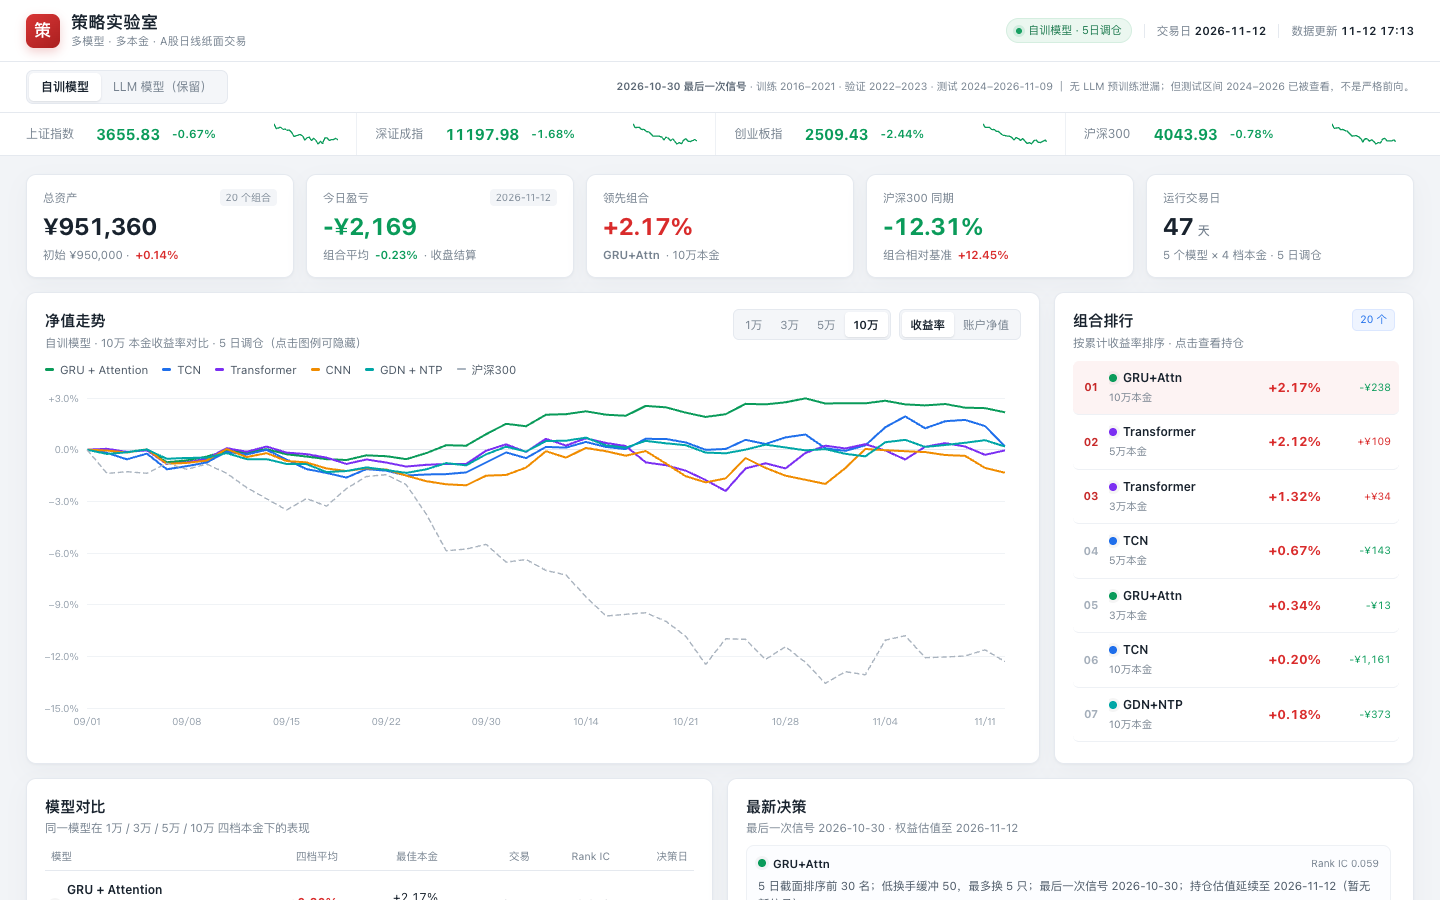
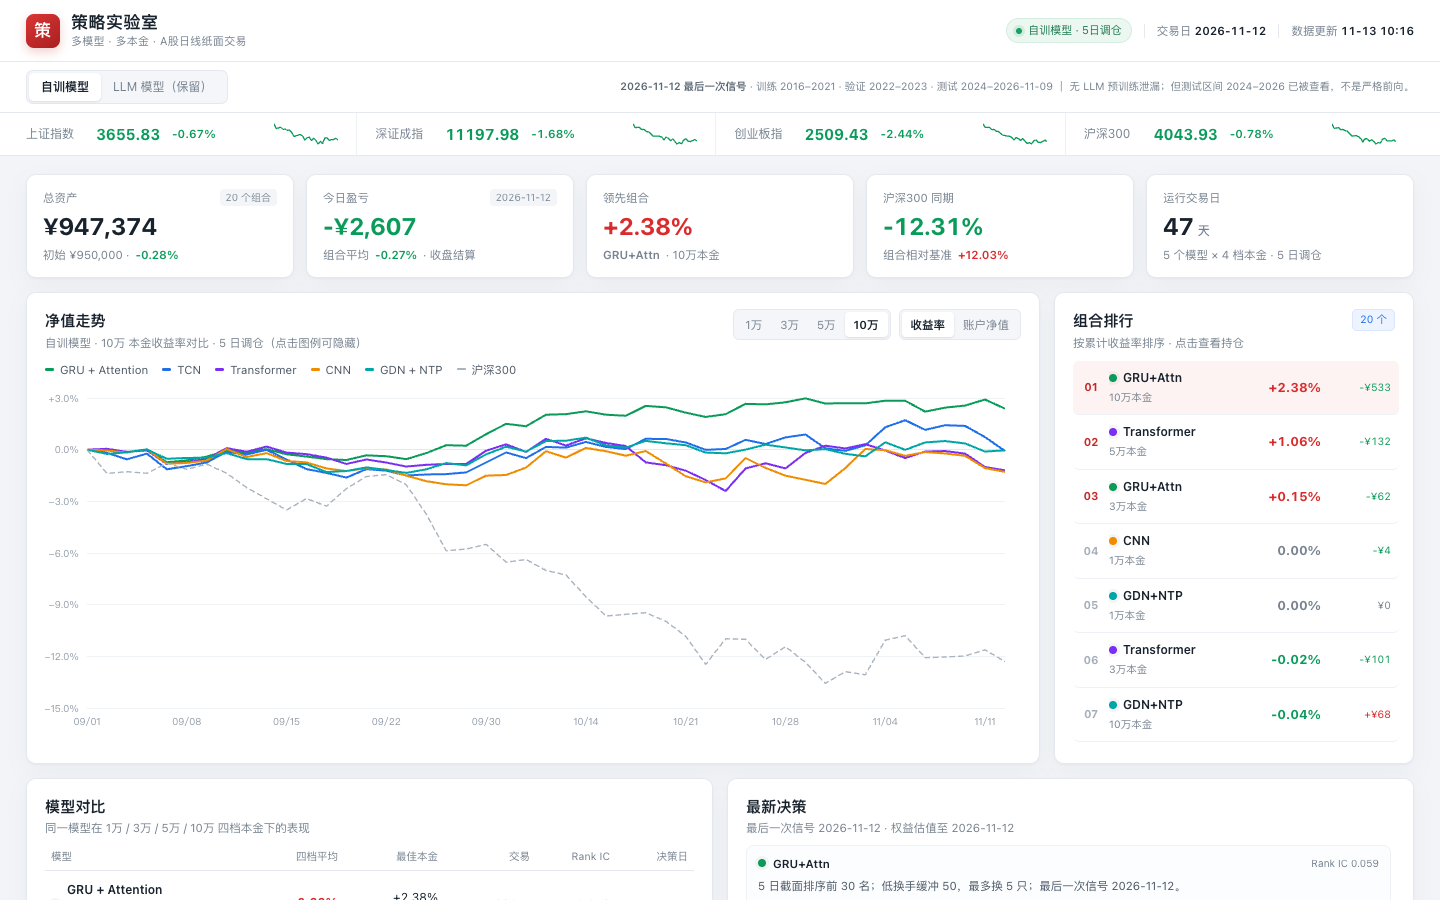
Extend self-trained signals through 2026-11-12 from local inference

diff --git a/docs/RESULTS.md b/docs/RESULTS.md
@@ -4,35 +4,35 @@
 
 ## 自训模型（2026-11-12）
 
-- 区间：2026-09-01 → 2026-11-12；交易日 47；成交 826 笔
-- 最后一次信号：2026-10-30
-- 总资产：¥951,360（初始 ¥950,000，+0.14%）
-- 沪深300 同期：-12.31%；相对基准：+12.45%
+- 区间：2026-09-01 → 2026-11-12；交易日 47；成交 1154 笔
+- 最后一次信号：2026-11-12
+- 总资产：¥947,374（初始 ¥950,000，-0.28%）
+- 沪深300 同期：-12.31%；相对基准：+12.03%
 - 口径：5 日调仓 · 653 只沪深300历史成分股 · 低换手规则
 - 泄漏说明：无 LLM 预训练泄漏；但测试区间 2024–2026 已被查看，不是严格前向。
 
 | 模型 | 本金 | 累计收益 | 最大回撤 | 夏普 | 胜率 | 成交 |
 | --- | ---: | ---: | ---: | ---: | ---: | ---: |
-| GRU + Attention | 1万 | +0.00% | 0.00% | 0.00 | 0% | 0 |
-| GRU + Attention | 3万 | +0.34% | -0.54% | 0.86 | 58% | 51 |
-| GRU + Attention | 5万 | -1.31% | -3.19% | -0.92 | 65% | 61 |
-| GRU + Attention | 10万 | +2.17% | -0.78% | 2.59 | 53% | 79 |
+| GRU + Attention | 1万 | -0.10% | -0.10% | -2.32 | 0% | 1 |
+| GRU + Attention | 3万 | +0.15% | -0.54% | 0.36 | 62% | 55 |
+| GRU + Attention | 5万 | -1.15% | -3.19% | -0.80 | 70% | 73 |
+| GRU + Attention | 10万 | +2.38% | -0.75% | 2.59 | 58% | 99 |
 | CNN | 1万 | +0.00% | -0.28% | 0.00 | 0% | 2 |
-| CNN | 3万 | -1.33% | -1.80% | -1.51 | 50% | 31 |
-| CNN | 5万 | -0.82% | -1.70% | -0.76 | 55% | 47 |
-| CNN | 10万 | -1.34% | -2.11% | -0.94 | 53% | 61 |
+| CNN | 3万 | -1.61% | -1.80% | -1.79 | 36% | 42 |
+| CNN | 5万 | -0.79% | -1.70% | -0.72 | 47% | 61 |
+| CNN | 10万 | -1.29% | -2.11% | -0.88 | 44% | 81 |
 | GDN + NTP | 1万 | +0.00% | 0.00% | 0.00 | 0% | 0 |
-| GDN + NTP | 3万 | -0.84% | -1.01% | -2.86 | 32% | 40 |
-| GDN + NTP | 5万 | +0.17% | -1.21% | 0.35 | 40% | 54 |
-| GDN + NTP | 10万 | +0.18% | -1.36% | 0.23 | 34% | 80 |
-| TCN | 1万 | +0.00% | 0.00% | 0.00 | 0% | 0 |
-| TCN | 3万 | -0.26% | -1.22% | -0.50 | 43% | 56 |
-| TCN | 5万 | +0.67% | -1.34% | 0.83 | 43% | 78 |
-| TCN | 10万 | +0.20% | -1.69% | 0.19 | 34% | 88 |
-| Transformer | 1万 | -0.07% | -0.13% | -1.04 | 0% | 2 |
-| Transformer | 3万 | +1.32% | -0.96% | 1.79 | 40% | 24 |
-| Transformer | 5万 | +2.12% | -1.65% | 1.86 | 67% | 32 |
-| Transformer | 10万 | -0.04% | -3.04% | 0.01 | 50% | 40 |
+| GDN + NTP | 3万 | -1.42% | -1.42% | -3.18 | 28% | 65 |
+| GDN + NTP | 5万 | -0.52% | -1.21% | -0.80 | 36% | 82 |
+| GDN + NTP | 10万 | -0.04% | -1.36% | -0.02 | 39% | 111 |
+| TCN | 1万 | -0.37% | -0.37% | -3.02 | 0% | 5 |
+| TCN | 3万 | -1.83% | -1.83% | -3.01 | 36% | 79 |
+| TCN | 5万 | -0.41% | -1.71% | -0.44 | 42% | 107 |
+| TCN | 10万 | -0.08% | -1.76% | -0.03 | 42% | 113 |
+| Transformer | 1万 | -0.38% | -0.44% | -2.78 | 0% | 6 |
+| Transformer | 3万 | -0.02% | -1.55% | -0.01 | 60% | 51 |
+| Transformer | 5万 | +1.06% | -1.65% | 0.94 | 81% | 56 |
+| Transformer | 10万 | -1.20% | -3.04% | -0.85 | 78% | 65 |
 
 
 ## LLM 模型（保留）（2026-11-12）

diff --git a/README.md b/README.md
@@ -12,7 +12,7 @@
 ## 当前实例
 
 - 仪表盘：`https://paper.suyingke.chat/<token>/`（token 只保存在本机 `~/.config/paper-trader/deploy.env`，不进入仓库）
-- 自训模型：5 × 4 = 20 个账本；信号截至 2026-10-30，持仓每日估值延续到最新交易日（当前 2026-11-12）
+- 自训模型：5 × 4 = 20 个账本；11-02 之后的新特征和分数已在本机补算，最后一次信号 2026-11-12
 - LLM 模型：5 × 4 = 20 个账本；每个交易日 15:35 自动结算并生成次日决策，17:10 自动重试限额失败的模型；当前已到 2026-11-12
 - 本地：行情缓存、SQLite 账本、自训模型分数重放、决策调度、静态站构建都在 Mac mini 上
 - 云端：腾讯云 2C/3G 上的 Caddy 只做静态文件 + token 路径校验，不承载交易逻辑
@@ -33,7 +33,7 @@
 - 股票池：653 只历史沪深 300 成分股；回放信号区间 2026-09-01 → 2026-10-30，持仓估值延续到最新交易日。
 - 组合：低换手规则——持有约 30 只、跌出前 50 名才卖、每 5 个交易日最多替换 5 只；次日开盘成交，100 股整手（`sh.688` 200 股），买卖 0.10%/0.20%（每笔最低 5 元），1% 成交额上限。
 - 数据来源：`~/labs/VLA/Share/v2/local_data/` 的 `panel.npz`、`metadata.json` 和五条路线的测试分数矩阵；本地用 `paper_trader/local_models.py` 重放，不需要 torch。
-- 数据口径限制：测试分数矩阵最后一次有效信号是 2026-10-30（5 日标签需要未来数据）；持仓按最新收盘价每日估值（当前至 2026-11-12），但不会凭空产生新信号。
+- 数据口径：原始测试分数矩阵最后一次有效信号是 2026-10-30（5 日标签需要未来数据）；11-02 → 11-12 用 BaoStock 新日线重建 panel、在本机用 `latest_*.pt` 补算分数并生成新信号。`docs/DATA_SOURCES.md` 记录了数据源与复现步骤。
 
 ### LLM 模型（保留）
 
@@ -177,7 +177,7 @@ python3 -m unittest discover -s tests -v
 
 见 [`docs/RESULTS.md`](docs/RESULTS.md)。关键数字：
 
-- 自训模型 20 个账本，2026-09-01 → 2026-11-12：合计 +0.14%，沪深 300 同期约 -12.31%；领先 GRU+Attention 10 万 +2.17%。
+- 自训模型 20 个账本，2026-09-01 → 2026-11-12：合计 -0.28%，沪深 300 同期约 -12.31%；领先 GRU+Attention 10 万 +2.38%；新补算的 11-02→11-12 信号已进入回放。
 - LLM 模型 20 个账本，2026-09-01 → 2026-11-12：合计 +1.52%，沪深 300 同期 -12.31%；领先 GLM-5.3 Flash 3 万 +3.06%。
 - 两个家族口径不同，仅作各自链路验证。
 

diff --git a/docs/OPERATIONS.md b/docs/OPERATIONS.md
@@ -78,7 +78,7 @@ python3 -m paper_trader.runner status
 
 - 数据源：`~/labs/VLA/Share/v2/local_data/`（`panel.npz`、`metadata.json`、五条路线的 `*_ensemble.npz` 分数矩阵；GDN 无 ensemble，使用三个种子均值）。
 - 重建：`python3 -m paper_trader.local_models` → `data/local_family.json`；再 `python3 -m paper_trader.runner export`。
-- 当前分数矩阵最后一次有效信号是 2026-10-30（5 日标签需要未来数据）；之后由 `python3 -m paper_trader.local_models --marks` 每日用最新收盘价延续持仓估值，不会产生新信号。要产生新信号，需要在 lab 用 `latest_*.pt` 对新数据推理并导出新的分数矩阵。
+- 当前已补算到 2026-11-12：BaoStock 增量日线 → 本地 `local_panel/src/prepare.py` 重建 panel → `latest_*.pt` 本机打分 → 重跑 `local_models`。`--marks` 仍可在没有新分数时延续持仓估值。完整步骤见 `docs/DATA_SOURCES.md`。
 - 自训模型不需要 torch / pandas；系统 Python + numpy 即可。
 - 费用口径与 LLM 家族不同（0.10%/0.20% vs 万 2.5/万 5），不要跨家族直接比收益。
 

diff --git a/docs/LOCAL_INFERENCE.md b/docs/LOCAL_INFERENCE.md
@@ -32,5 +32,5 @@ cd ~/labs/VLA/Share/v2
 - 五条路线各跑一遍（300 只股票）：MPS 合计约 **0.11 秒**；CPU 合计约 **0.32 秒**。GDN 在 MPS 上反而慢，单独用 CPU 更合适。
 - 这是**模型前向**的耗时。真正的日更瓶颈是把新行情整理成 60×25 特征（panel 准备、校验与落盘），不是推理。
 - 显存/内存：模型 3–10 万参数，远小于 16GB；MPS 与 CPU 共享统一内存，峰值远低于 1GB。
-- 当前平台的自训家族仍使用预计算分数矩阵（最后信号 2026-10-30）；本地推理环境已经可用，要产生新信号需要在本地更新 panel 特征后用这些检查点打分。
+- 2026-11-13 已在本机补算 11-02→11-12 的特征与分数：BaoStock 增量 → `prepare.py` 重建 panel → `latest_*.pt` 打分，最后一次自训信号 2026-11-12。
 - 本地只跑自训模型；LLM 家族使用云端 DeepSeek/智谱 API，不在本机运行。

diff --git a/docs/DATA_SOURCES.md b/docs/DATA_SOURCES.md
@@ -48,5 +48,6 @@
 ## 现状与下一步
 
 - 本地已有 `panel.npz`（截至 11-09）和五条路线的 `latest_*.pt`；本机 `~/labs/VLA/Share/v2/.venv` 已装好 torch/MPS + baostock。
-- 当前自训家族用预计算分数（最后信号 10-30），持仓估值续到 11-12；要产生新信号，还差上面的增量下载 + `prepare.py` 重建 panel 这一步。
+- **已跑通（2026-11-13）**：从 lab 同步 653 只 raw 原料 → BaoStock 增量补 11-10~11-12 → 本地 `prepare.py` 重建 panel（2,762 个交易日）→ 本机 `latest_*.pt` 补算 11-02~11-12 分数 → 五条路线重新回放，最后一次信号 11-12，自训家族成交 1,154 笔。
+- 复现步骤见本文件“日更建议流程”；每日自动串进 launchd 仍待补（当前已能一键跑通）。
 - 本地只跑自训模型；LLM 家族仍只走云端 API，不下载/运行外部 LLM。
